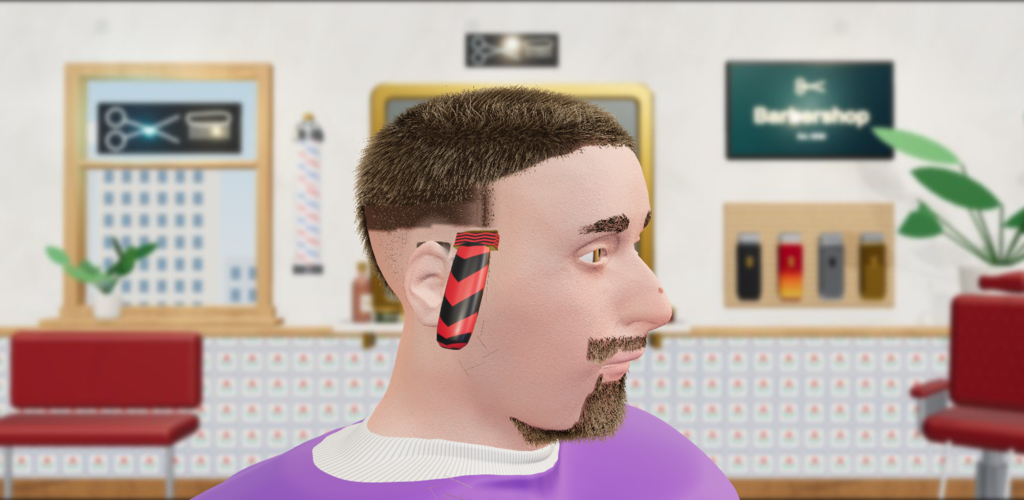
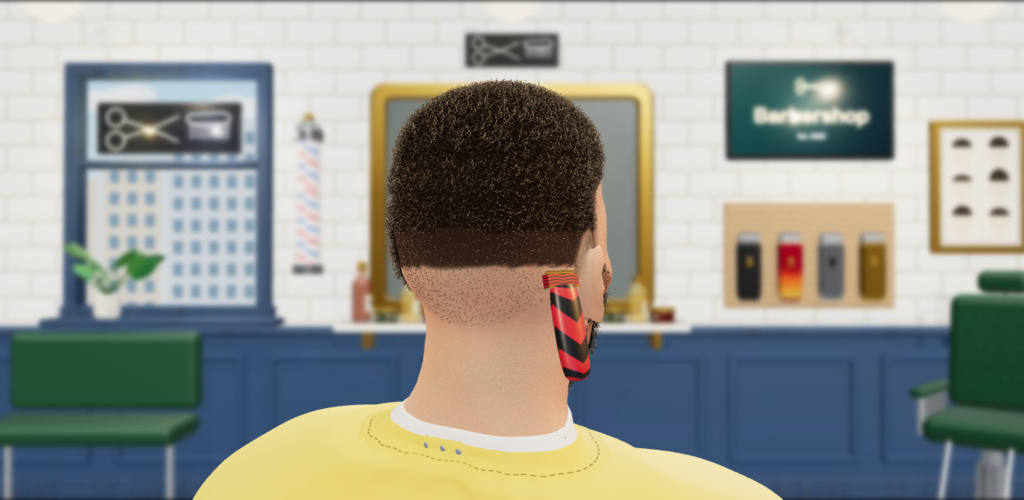
Replace the feature graphic with a layered back fade being finished
The 1024x500 banner now shows a customer from behind with dark curly hair: a
layered skin fade (guards 0 to 3) done all around the back and the clipper
finishing the last strip. No text or buttons. The capture scene and its passes
are updated to reproduce it.

diff --git a/android/store-listing/screenshots/README.md b/android/store-listing/screenshots/README.md
@@ -17,7 +17,7 @@ no device frames. Four show a cut in progress with the clipper on the hair; four
 | `6-ginger-taper-finished.png` | mixed heritage, 20s | curly ginger, clean-shaven | behind | carbon, sky | classic | finished low taper |
 | `7-coily-temple-fade.png` | East African, 25 | coily black, handlebar moustache | side | marble, magenta | London | temple skin fade, in progress |
 | `8-high-fade-finished.png` | Latino, 30s | brown, anchor beard | front three-quarter | leopard, green | Mexico City | finished high fade |
-| `../en-US/images/featureGraphic.png` (1024×500) | Northern European, 30s | dark brown, balbo beard | side | red chevron, purple | Istanbul | skin fade in progress, buttons hidden |
+| `../en-US/images/featureGraphic.png` (1024×500) | Mediterranean, 20s | dark curly hair, stubble | from behind | red chevron, yellow | London | layered skin fade (guards 0 to 3) done all around the back, clipper finishing the last strip; buttons hidden |
 
 Phone shots are 1080×1920 (9:16), 24-bit PNG without transparency.
 
